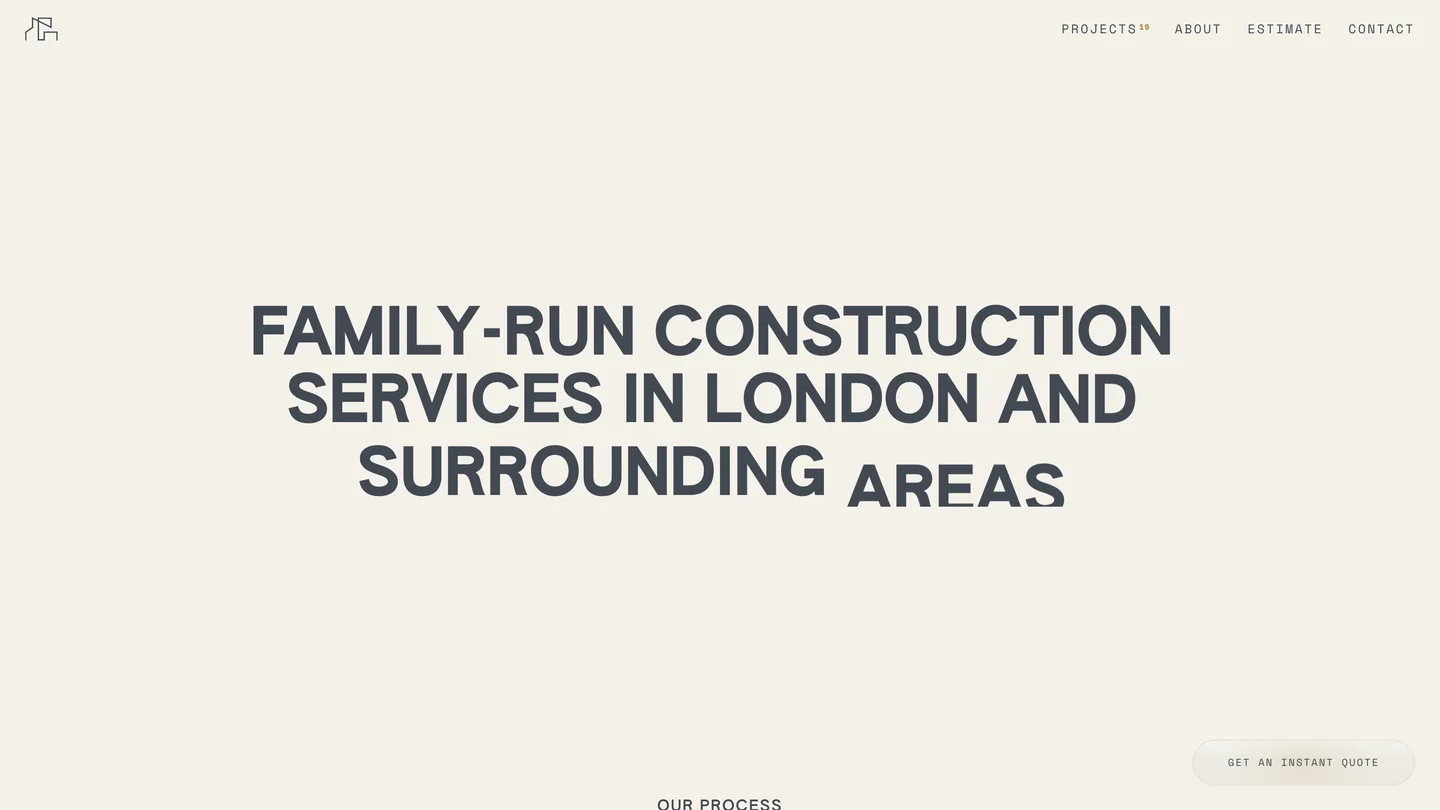
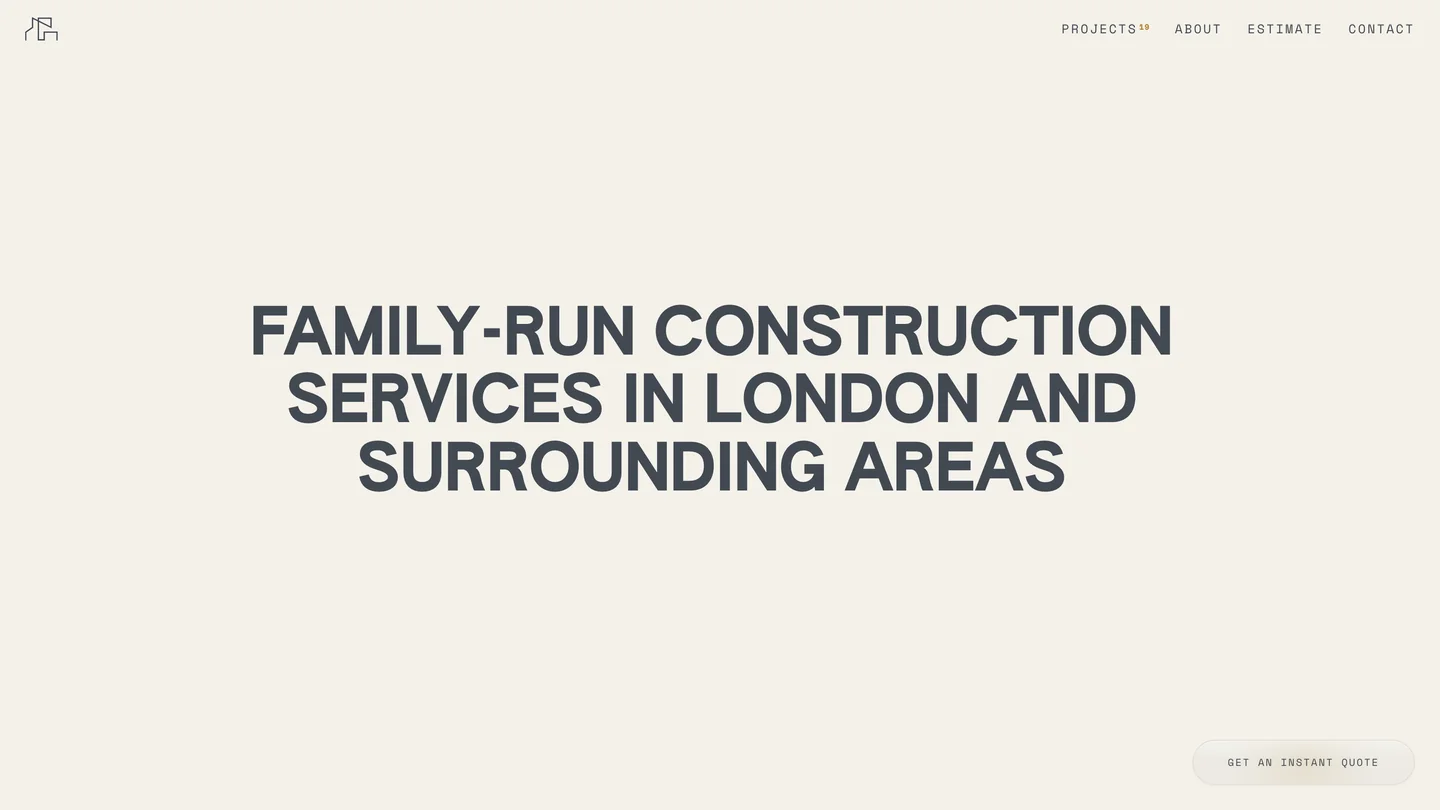
Lows previews: reshoot cleanly-framed sections with feed loaded; drop cycle dots
- Re-capture the four Lows web-preview shots aligned to section boundaries
  (hero, services, process steps, the @lowsdesignandbuild feed) after a full
  pre-scroll so the Behold Instagram grid actually loads — fixes the cropped
  text/images and the blank feed.
- Version the Lows webShots + home-list image URLs (?v=2) so the fix isn't
  masked by the old cached crops; case-study next/image posters stay
  unversioned (query strings aren't allowed there).
- Remove the PreviewCycle indicator dots (component + CSS).

Changed region(s): [[0.25, 0.5247, 0.75, 0.6481], [0.4375, 0.9877, 0.5625, 1.0]]

diff --git a/app/globals.css b/app/globals.css
@@ -5127,24 +5127,3 @@ a.tag-ext:hover .nav-ext-bubble { background: var(--pink); }
 @media (prefers-reduced-motion: reduce) {
   .group:hover .brand-tile-logo { transform: none; }
 }
-
-/* PreviewCycle dots — tiny progress pips bottom-centre of a cycling web thumb.
-   UNLAYERED (Tailwind v4 @layer-components purge, as with .brand-tile). */
-.preview-cycle-dots {
-  position: absolute;
-  left: 0; right: 0; bottom: 10px;
-  display: flex;
-  justify-content: center;
-  gap: 6px;
-  pointer-events: none;
-  opacity: 0;
-  transition: opacity 0.25s ease;
-}
-.preview-cycle:hover .preview-cycle-dots { opacity: 1; }
-.preview-cycle-dots span {
-  width: 6px; height: 6px; border-radius: 999px;
-  background: rgba(255, 255, 255, 0.55);
-  box-shadow: 0 0 0 1px rgba(20, 20, 20, 0.18);
-  transition: background 0.2s ease, transform 0.2s ease;
-}
-.preview-cycle-dots span.is-on { background: var(--pink); transform: scale(1.25); }

diff --git a/app/(site)/page.tsx b/app/(site)/page.tsx
@@ -33,7 +33,7 @@ const WEBSITES: Website[] = [
     url: "https://www.lowsdesignandbuild.com",
     year: "2026",
     bio: "A family-run design and build company in London. The brand came first, logo through to the vehicle wrap, and now the site matches it: a custom build with instant quoting and the full project story.",
-    images: ["/images/web/lows-1.webp", "/images/web/lows-2.webp", "/images/web/lows-3.webp", "/images/web/lows-4.webp"],
+    images: ["/images/web/lows-1.webp?v=2", "/images/web/lows-2.webp?v=2", "/images/web/lows-3.webp?v=2", "/images/web/lows-4.webp?v=2"],
     caseStudy: "/case-studies/lows-design-build",
   },
   {

diff --git a/content/projects.ts b/content/projects.ts
@@ -836,7 +836,7 @@ export const projects: Project[] = [
       video: "/images/lows-design-build/site-scroll-3d.mp4?v=2",
     },
     webThumb: "/images/web/lows-1.webp",
-    webShots: ["/images/web/lows-1.webp", "/images/web/lows-2.webp", "/images/web/lows-3.webp", "/images/web/lows-4.webp"],
+    webShots: ["/images/web/lows-1.webp?v=2", "/images/web/lows-2.webp?v=2", "/images/web/lows-3.webp?v=2", "/images/web/lows-4.webp?v=2"],
     brandThumb: {
       logo: "/images/lows-design-build/logomark.svg",
       colors: ["#424952", "#A99E92", "#E6E0D6"],

diff --git a/components/PreviewCycle.tsx b/components/PreviewCycle.tsx
@@ -53,13 +53,6 @@ export default function PreviewCycle({
           style={{ opacity: idx === i ? 1 : 0 }}
         />
       ))}
-      {images.length > 1 && (
-        <div className="preview-cycle-dots" aria-hidden="true">
-          {images.map((src, idx) => (
-            <span key={src} className={idx === i ? "is-on" : ""} />
-          ))}
-        </div>
-      )}
     </div>
   );
 }
